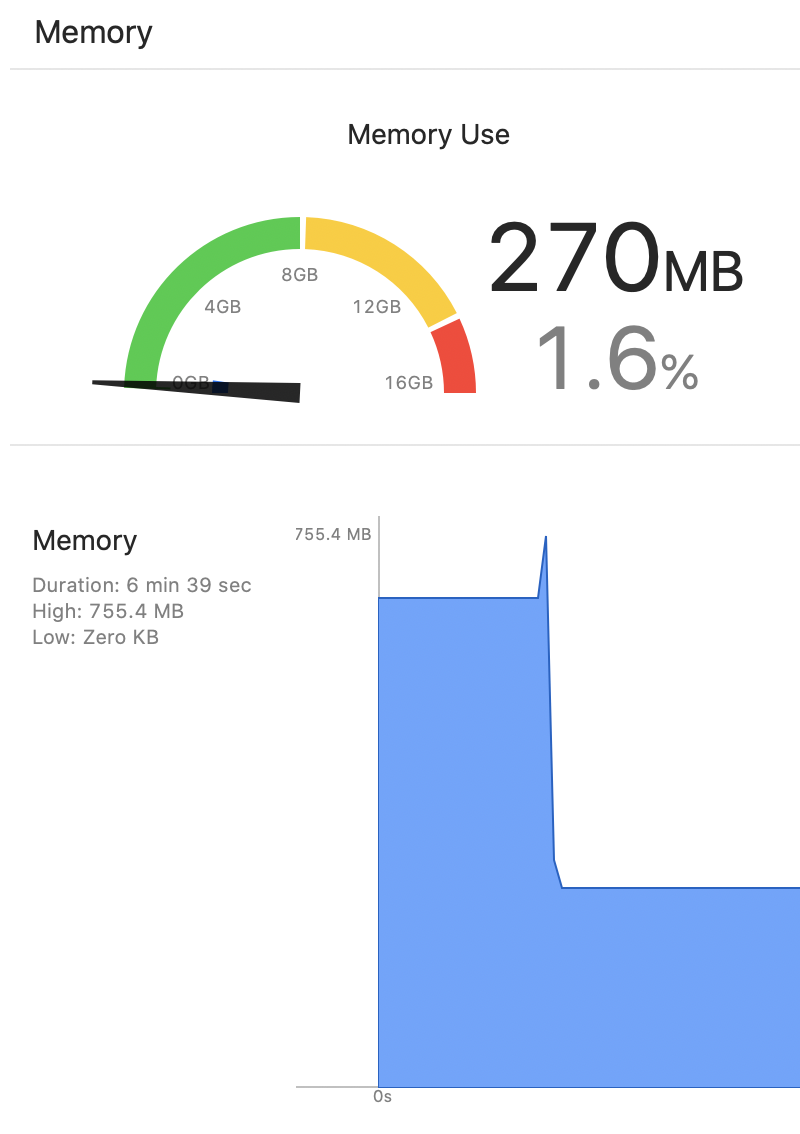
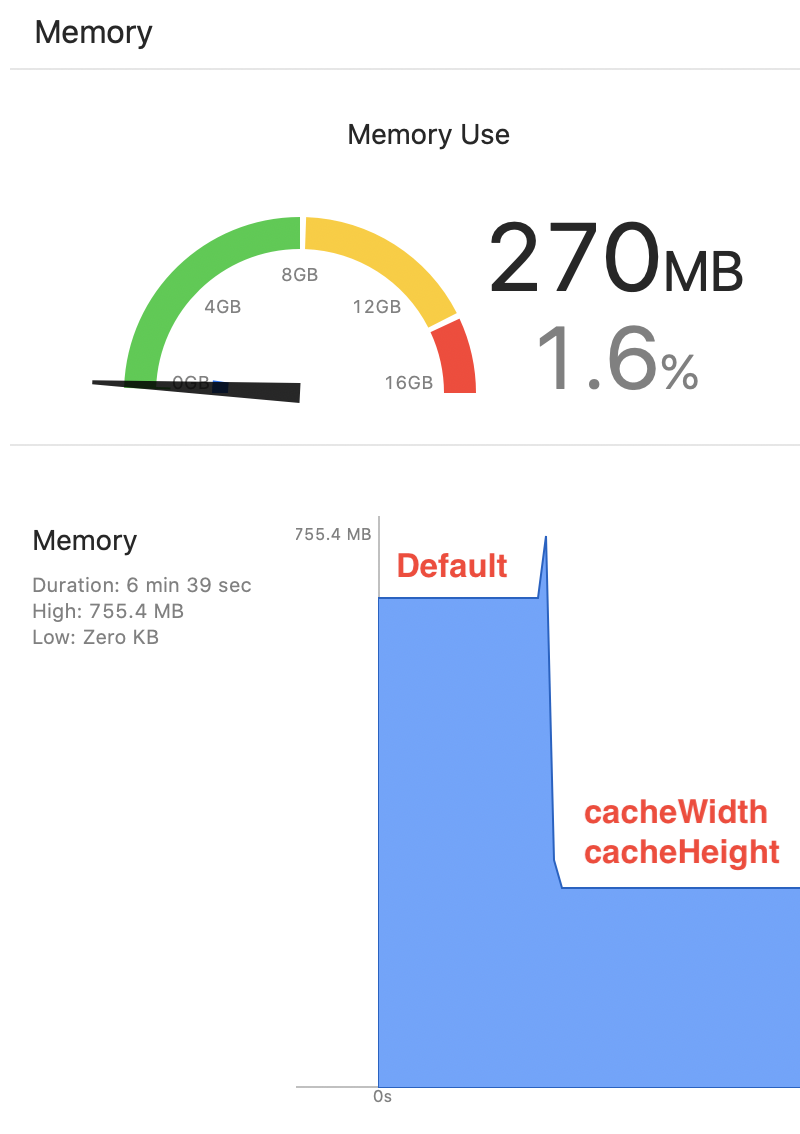
Update README

Changed region(s): [[0.7188, 0.7099, 0.9688, 0.7716], [0.5, 0.463, 0.6562, 0.5247]]

diff --git a/lib/widgets/image_cell.dart b/lib/widgets/image_cell.dart
@@ -29,11 +29,17 @@ class ImageCell extends StatelessWidget {
         return _buildImage(cacheSize: 10);
       case ImageDisplayType.just:
         return LayoutBuilder(
-          builder: (context, constraints) => _buildImage(
-            cacheSize:
+          builder: (context, constraints) {
+            final cacheSize =
                 (constraints.maxWidth * MediaQuery.of(context).devicePixelRatio)
-                    .toInt(),
-          ),
+                    .toInt();
+            return Image.asset(
+              _imageName,
+              fit: BoxFit.cover,
+              cacheWidth: cacheSize,
+              cacheHeight: cacheSize,
+            );
+          },
         );
     }
     assert(false, 'Unexpecgted type: $type');

diff --git a/README.md b/README.md
@@ -1,0 +1,31 @@
+# image_performance
+
+## Memory usage
+
+![](screenshots/memory.png)
+
+## Image Quality
+
+Default | Using cacheWidth/cacheHeight
+--- | ---
+![](screenshots/default.png) | ![](screenshots/just_size.png)
+
+
+## Basic usage of cacheWidth/cacheHeight
+
+
+```dart
+LayoutBuilder(
+  builder: (context, constraints) {
+    final cacheSize =
+        (constraints.maxWidth * MediaQuery.of(context).devicePixelRatio)
+            .toInt();
+    return Image.asset(
+      _imageName,
+      fit: BoxFit.cover,
+      cacheWidth: cacheSize,
+      cacheHeight: cacheSize,
+    );
+  },
+);
+```
